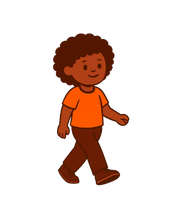
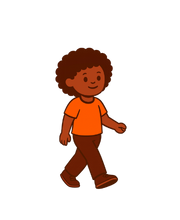
Ajout perso dos

Changed region(s): [[0.2778, 0.1364, 0.7222, 0.8727]]

diff --git a/src/assets/images/icones/index.js b/src/assets/images/icones/index.js
@@ -3,6 +3,8 @@ import Femme from './Femme.png';
 import DrapeauHaut from './drapeau_haut.png'
 import DrapeauBas from './drapeau_bas.png'
 import Luteur from './Luteur.png'
+import HommeDos from './HommeDos.png'
+import FemmeDos from './FemmeDos.png'
 
 // ... Ajoutez ici toutes les autres images de décors ...
 
@@ -11,5 +13,7 @@ export {
     Femme,
     DrapeauHaut,
     DrapeauBas,
-    Luteur 
+    Luteur,
+    HommeDos,
+    FemmeDos
 };
